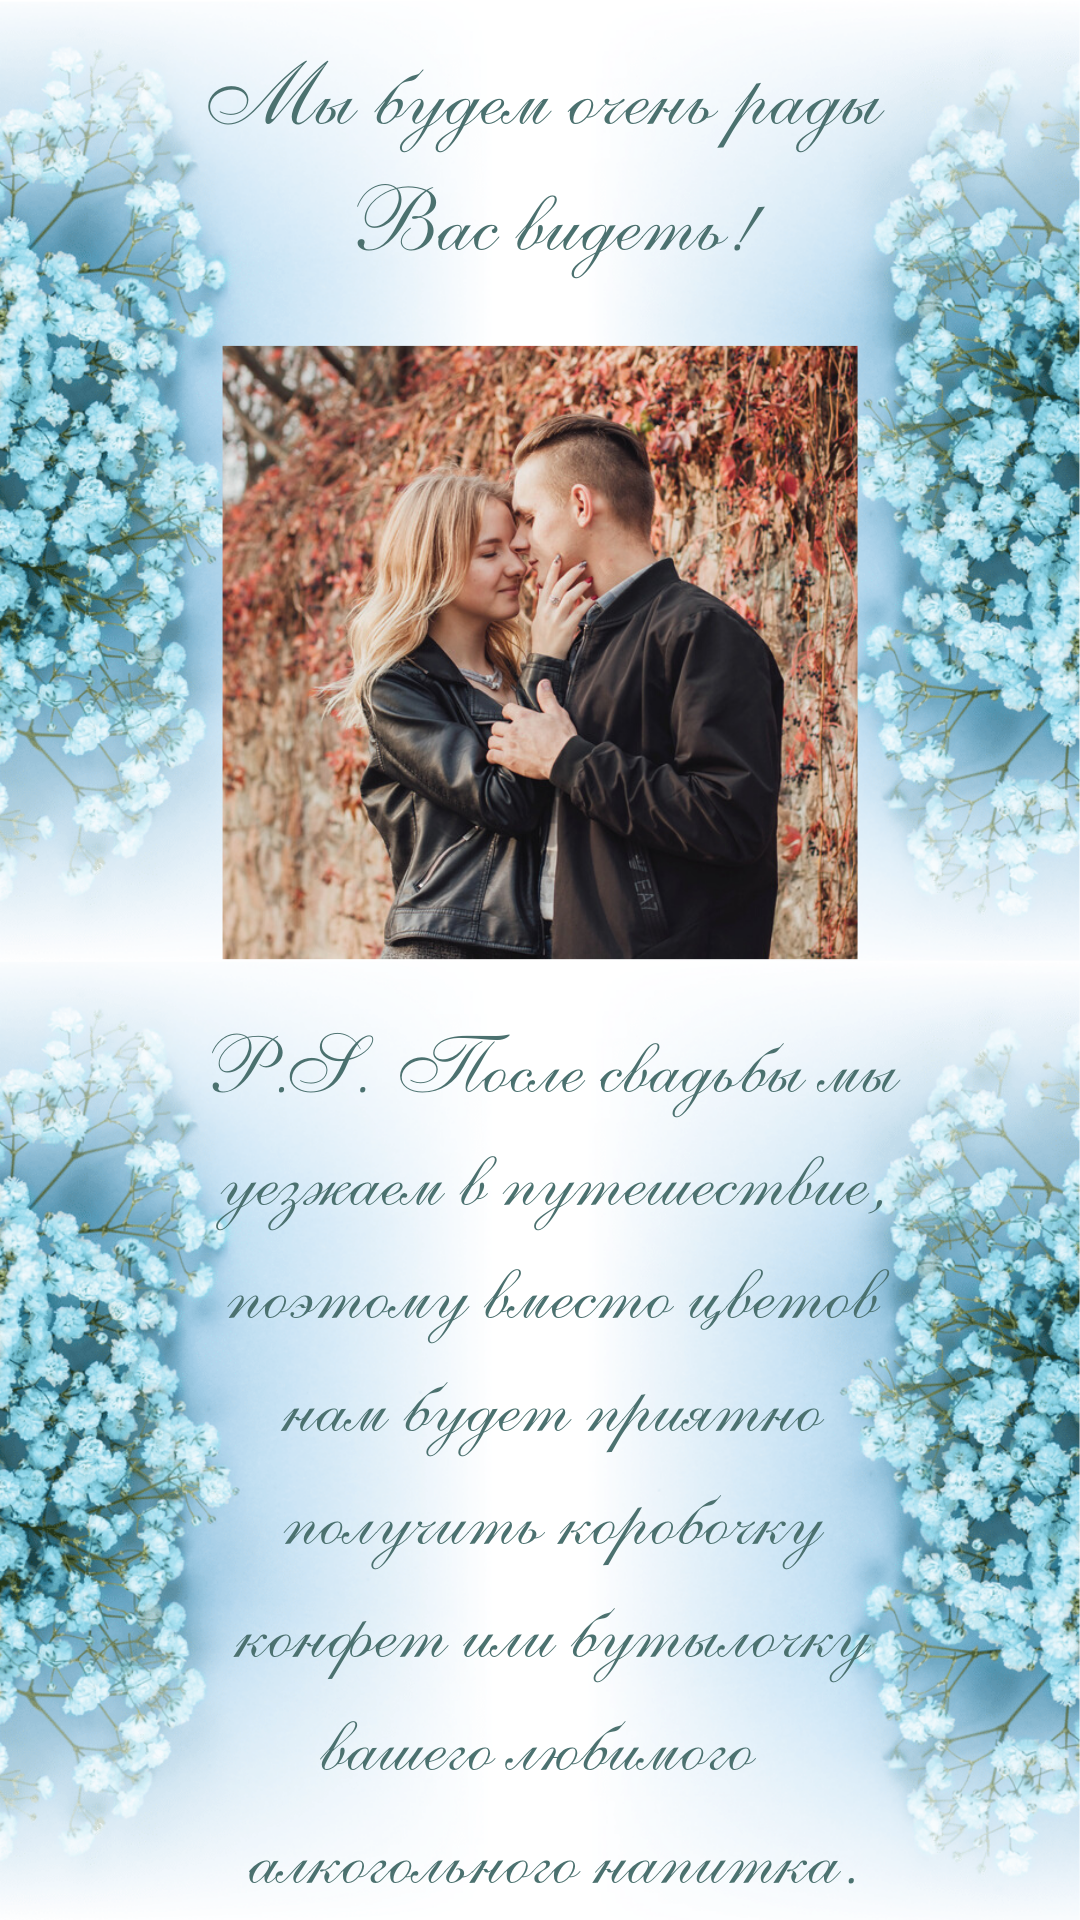
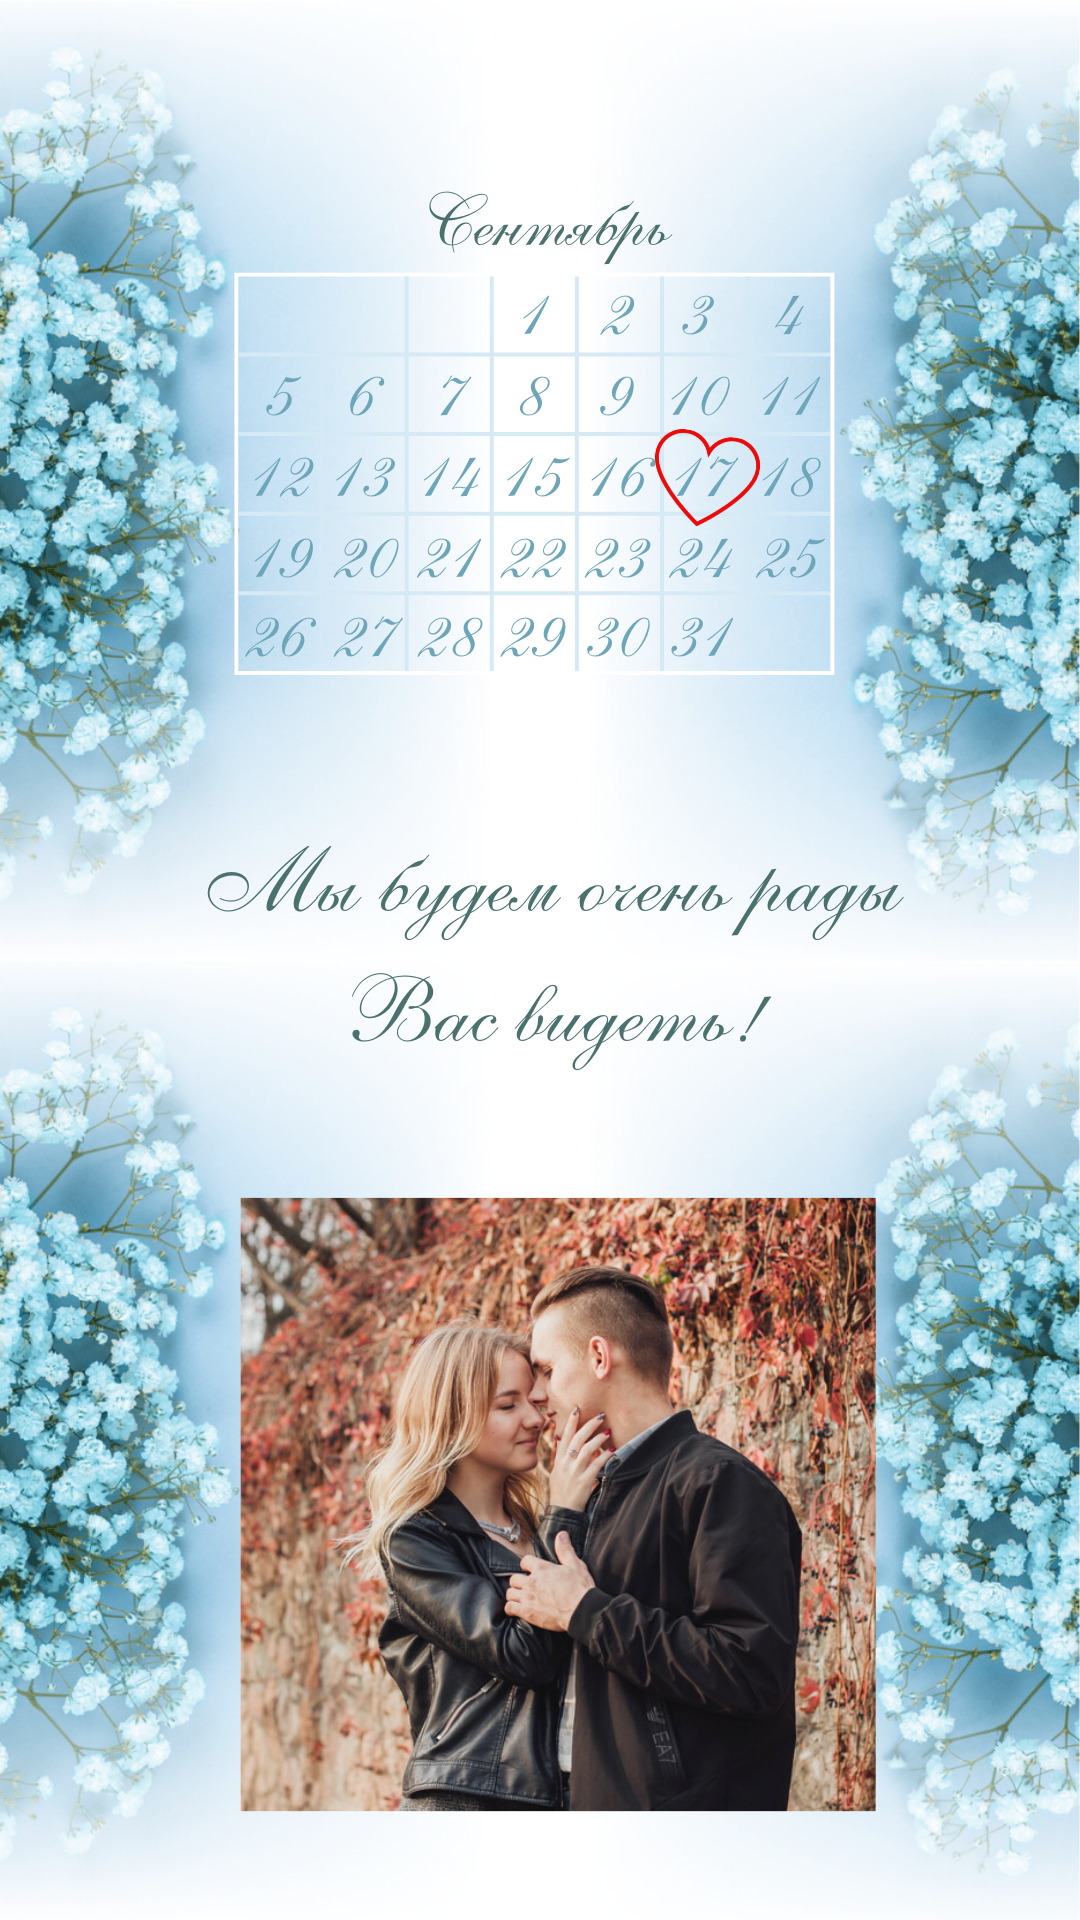
feature: add new mobile page

diff --git a/public/js/index.js b/public/js/index.js
@@ -8,10 +8,12 @@ if (window.devicePixelRatio !== 1) { // Костыль для определен
   images[0] = document.getElementById('1');
   images[1] = document.getElementById('2');
   images[2] = document.getElementById('3');
-  let mobileImg = document.getElementById('mobile');
+  let mobileImg4 = document.getElementById('mobile_4');
+  let mobileImg5 = document.getElementById('mobile_5');
 
   if (window.screen.width < 600) {
-    mobileImg.style.display = 'inline';
+    mobileImg4.style.display = 'inline';
+    mobileImg5.style.display = 'inline';
 
     images[0].setAttribute('src', './images/1_mobile.png');
     images[1].setAttribute('src', './images/2_mobile.png');

diff --git a/public/index.html b/public/index.html
@@ -18,8 +18,11 @@
     <div class="third_page">
         <img src="./images/3_desktop.png" id="3"/>
     </div>
-    <div class="fourth_page" id="mobile">
+    <div class="fourth_page" id="mobile_4">
         <img src="./images/4_mobile.png" id="4"/>
+    </div>
+    <div class="fourth_page" id="mobile_5">
+        <img src="./images/5_mobile.png" id="5"/>
     </div>
 </body>
 <script src="./js/index.js"></script>

diff --git a/public/css/styles.css b/public/css/styles.css
@@ -2,7 +2,11 @@
   margin: 0;
 }
 
-#mobile {
+#mobile_4 {
+  display: none;
+}
+
+#mobile_5 {
   display: none;
 }
 
